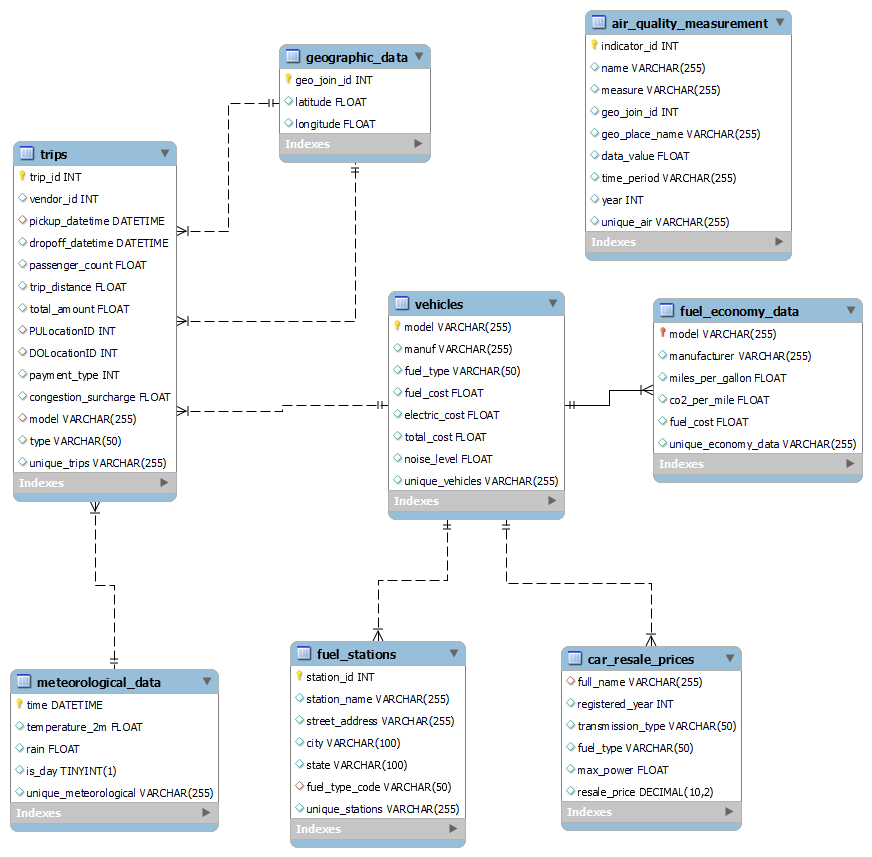
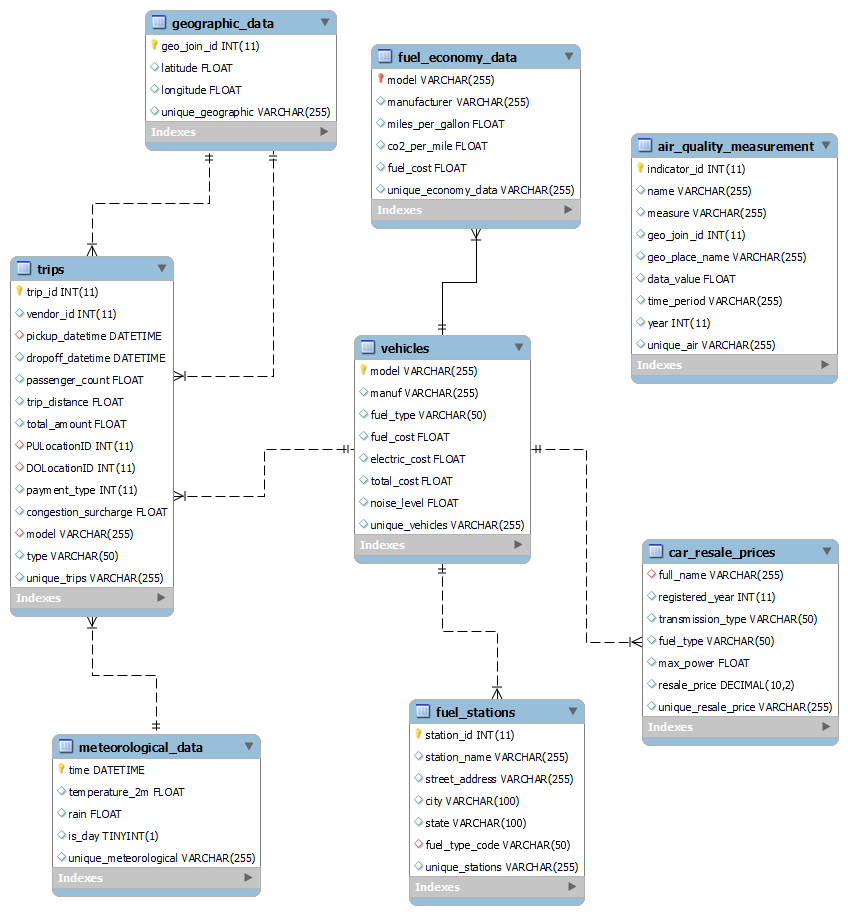
actualizo MER

Changed region(s): [[0.0, 0.0, 1.0, 1.0], [0.3986, 0.3337, 0.6745, 0.6371], [0.6132, 0.4551, 0.6745, 0.5158]]

diff --git a/dw/Modelo_ER.md b/dw/Modelo_ER.md
@@ -118,14 +118,15 @@
 
 ### **8. car_resale_prices**
 
-| Atributo            | Tipo de dato   | Descripción                                         | Clave       |
-|---------------------|----------------|-----------------------------------------------------|-------------|
-| `full_name`         | Object         | Nombre completo (marca y modelo)                    | FK          |
-| `registred_year`    | Object         | Año registrado                                      |             |
-| `transmission_type` | Float          | Tipo de transmisión (Manual o Automático)           |             |
-| `fuel_type`         | Float          | Tipo de combustible                                 |             |
-| `max_power`         | Float          | Potencia máxima del motor	                         |             |
-| `resale_price`      | Float          | Precio de reventa en USD      	                     |             |
+| Atributo              | Tipo de dato   | Descripción                                         | Clave       |
+|-----------------------|----------------|-----------------------------------------------------|-------------|
+| `full_name`           | Object         | Nombre completo (marca y modelo)                    | FK          |
+| `registred_year`      | Object         | Año registrado                                      |             |
+| `transmission_type`   | Float          | Tipo de transmisión (Manual o Automático)           |             |
+| `fuel_type`           | Float          | Tipo de combustible                                 |             |
+| `max_power`           | Float          | Potencia máxima del motor	                       |             |
+| `resale_price`        | Float          | Precio de reventa en USD      	                   |             |
+| `unique_resale_price` | Integer        | Identificador único de la tabla                     |             |
 
 **Relaciones:**
 - `full_name` → **Vehicles** (`model`) - ¿Indicaría que el precio de reventa está asociado a un vehículo específico?
